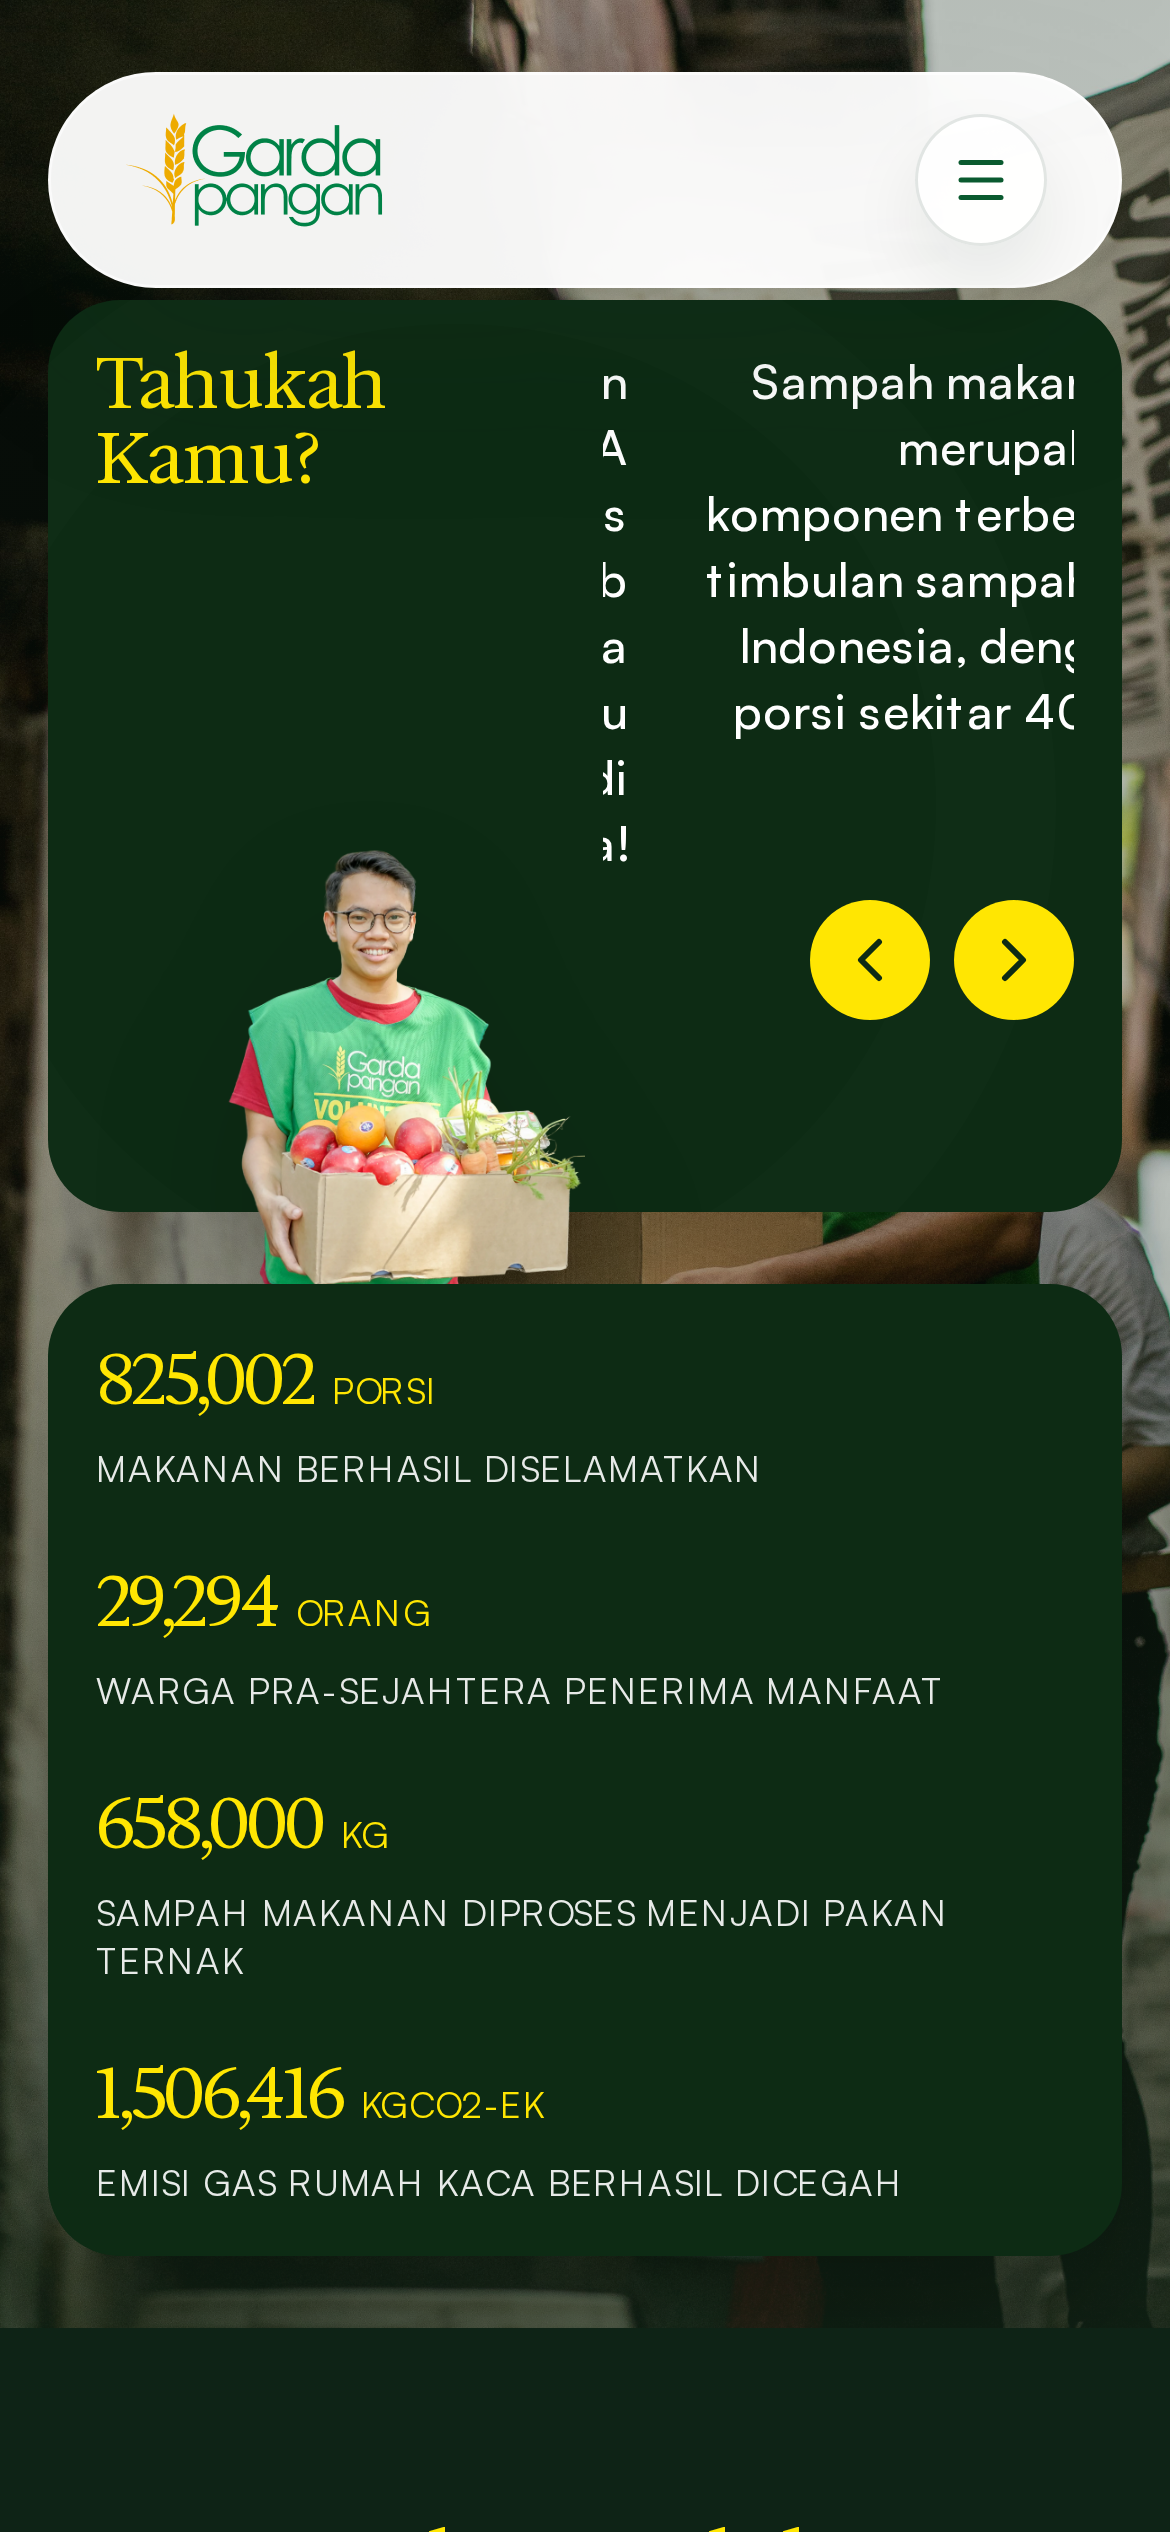
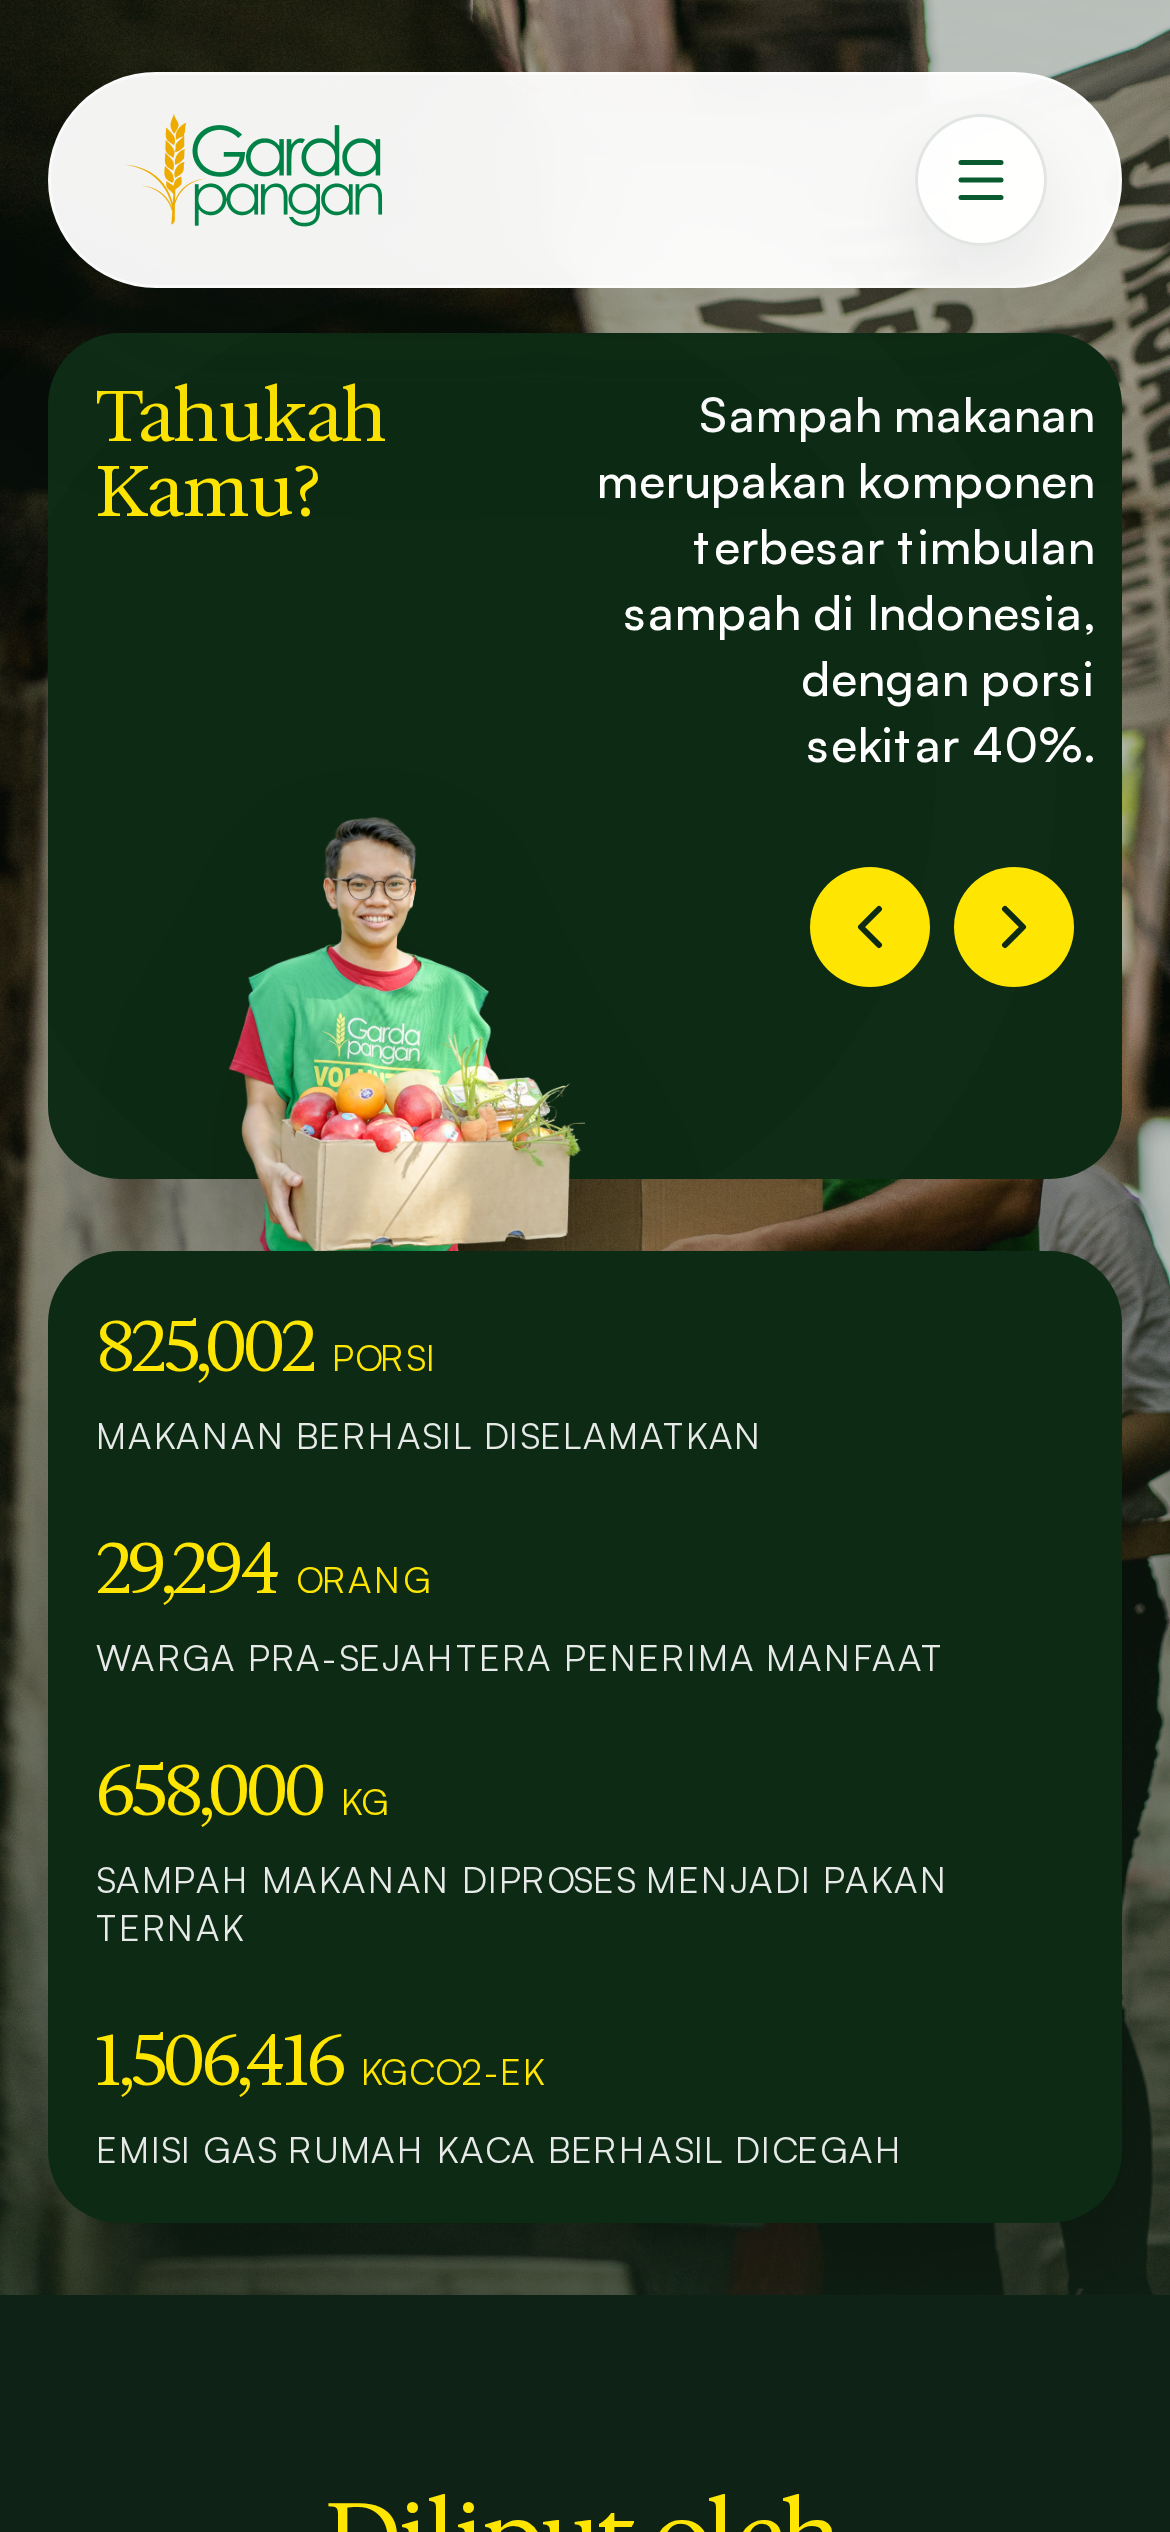
Fix reduced-motion fact column width in HeroFactsBlock
Stretch the carousel column to full grid cell width instead of
items-end shrink. Reshoot verify-shots/04-branch-reduced-motion-390.png.

diff --git a/src/components/hero-facts-block.tsx b/src/components/hero-facts-block.tsx
@@ -73,12 +73,12 @@ function DidYouKnowCarouselInternal({
       opts={{ align: 'start', loop: true }}
       plugins={[plugin.current]}
       setApi={setCarouselApi}
-      className="static w-full min-w-0"
+      className="static w-full min-w-0 max-w-none"
     >
       <CarouselContent>
         {items.map((slide) => (
-          <CarouselItem key={slide.id} className="min-w-0">
-            <p className="text-pretty break-words pb-12 text-right text-base font-medium leading-snug text-white md:pb-20 md:text-lg md:leading-relaxed lg:text-xl">
+          <CarouselItem key={slide.id} className="min-w-0 basis-full">
+            <p className="w-full text-pretty break-words pb-12 text-right text-base font-medium leading-snug text-white md:pb-20 md:text-lg md:leading-relaxed lg:text-xl">
               {slide.content}
             </p>
           </CarouselItem>
@@ -181,8 +181,8 @@ export function HeroFactsBlock({
             </svg>
           </div>
 
-          <div className="relative z-10 grid grid-cols-2 items-start gap-x-3 gap-y-2 md:gap-8">
-            <div className="flex flex-col items-start justify-start gap-0">
+          <div className="relative z-10 grid grid-cols-[minmax(0,42%)_minmax(0,58%)] items-start gap-x-3 gap-y-2 md:gap-8">
+            <div className="flex min-w-0 flex-col items-start justify-start gap-0">
               <h2
                 aria-label={title}
                 className="font-serif text-[clamp(1.5rem,6vw,3.5rem)] leading-[1.05] text-garda-sun"
@@ -191,7 +191,7 @@ export function HeroFactsBlock({
               </h2>
               <GardaLogo className="pointer-events-none mt-4 hidden origin-top-left shrink-0 scale-150 transform opacity-30 invert brightness-0 md:block" />
             </div>
-            <div className="flex min-w-0 flex-col items-end justify-start pt-0 md:max-w-md md:pt-1">
+            <div className="flex w-full min-w-[11.5rem] flex-col justify-start self-stretch pt-0 md:max-w-md md:pt-1">
               <DidYouKnowCarouselInternal slides={didYouKnowSlides} />
             </div>
           </div>
